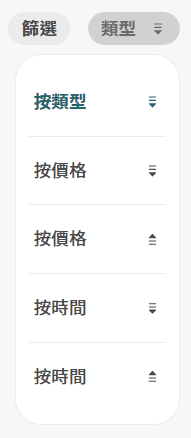
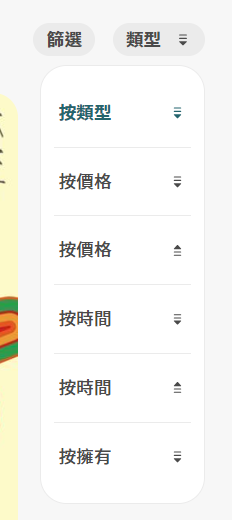
GITBOOK-4517: NFT 展示櫃

diff --git a/general-guides/writing-nft/collect-writing-nft/nft-portfolio.md b/general-guides/writing-nft/collect-writing-nft/nft-portfolio.md
@@ -6,7 +6,17 @@ description: 展示 NFT 藏品
 
 讀者除了可於 NFT Widget 收集當前文章的 NFT 外，也可以到用戶的 **NFT 展示櫃** 頁面（網址為 https://liker.land/\[錢包地址]）直接購買正在發售中的 NFT。用戶也可以經任何渠道分享他的 NFT 藏品連結。
 
-<figure><img src="../../../.gitbook/assets/NFT Portfolio 1.png" alt=""><figcaption><p>NFT 展示櫃</p></figcaption></figure>
+## 收藏
+
+展示該用戶的 NFT 藏品。
+
+<figure><img src="../../../.gitbook/assets/NFT Portfolio Collected.png" alt=""><figcaption><p>收藏</p></figcaption></figure>
+
+## 創作
+
+展示該用戶創作的 NFT。
+
+<figure><img src="../../../.gitbook/assets/NFT Portfolio Created.png" alt=""><figcaption></figcaption></figure>
 
 ## NFT 寶石
 
@@ -14,9 +24,11 @@ description: 展示 NFT 藏品
 
 <figure><img src="../../../.gitbook/assets/NFT Portfolio 2.png" alt=""><figcaption><p>NFT 寶石</p></figcaption></figure>
 
-## 頭號粉絲
+## 最愛作者及頭號粉絲
 
-頭號粉絲功能，增進創作者與支持者之間的關係。
+最愛作者及頭號粉絲功能，增進創作者與支持者之間的關係。
+
+<figure><img src="../../../.gitbook/assets/NFT Portfolio 7.png" alt=""><figcaption><p>最愛作者</p></figcaption></figure>
 
 <figure><img src="../../../.gitbook/assets/NFT Portfolio 3.png" alt=""><figcaption><p>頭號粉絲</p></figcaption></figure>
 
@@ -24,9 +36,18 @@ description: 展示 NFT 藏品
 
 用戶可以透過不同的排序去查看任何 NFT 展示櫃，選擇包括：
 
-* 依照類型
-* 依照價格
-* 依照時間
+* 依類型篩選
+
+<figure><img src="../../../.gitbook/assets/NFT Portfolio 5.png" alt=""><figcaption></figcaption></figure>
+
+* 依作者篩選
+
+<figure><img src="../../../.gitbook/assets/NFT Portfolio 6.png" alt=""><figcaption></figcaption></figure>
+
+* 按類型
+* 按價格
+* 按時間
+* 按擁有
 
 <figure><img src="../../../.gitbook/assets/NFT Portfolio 4.png" alt=""><figcaption><p>藏品排序</p></figcaption></figure>
 
